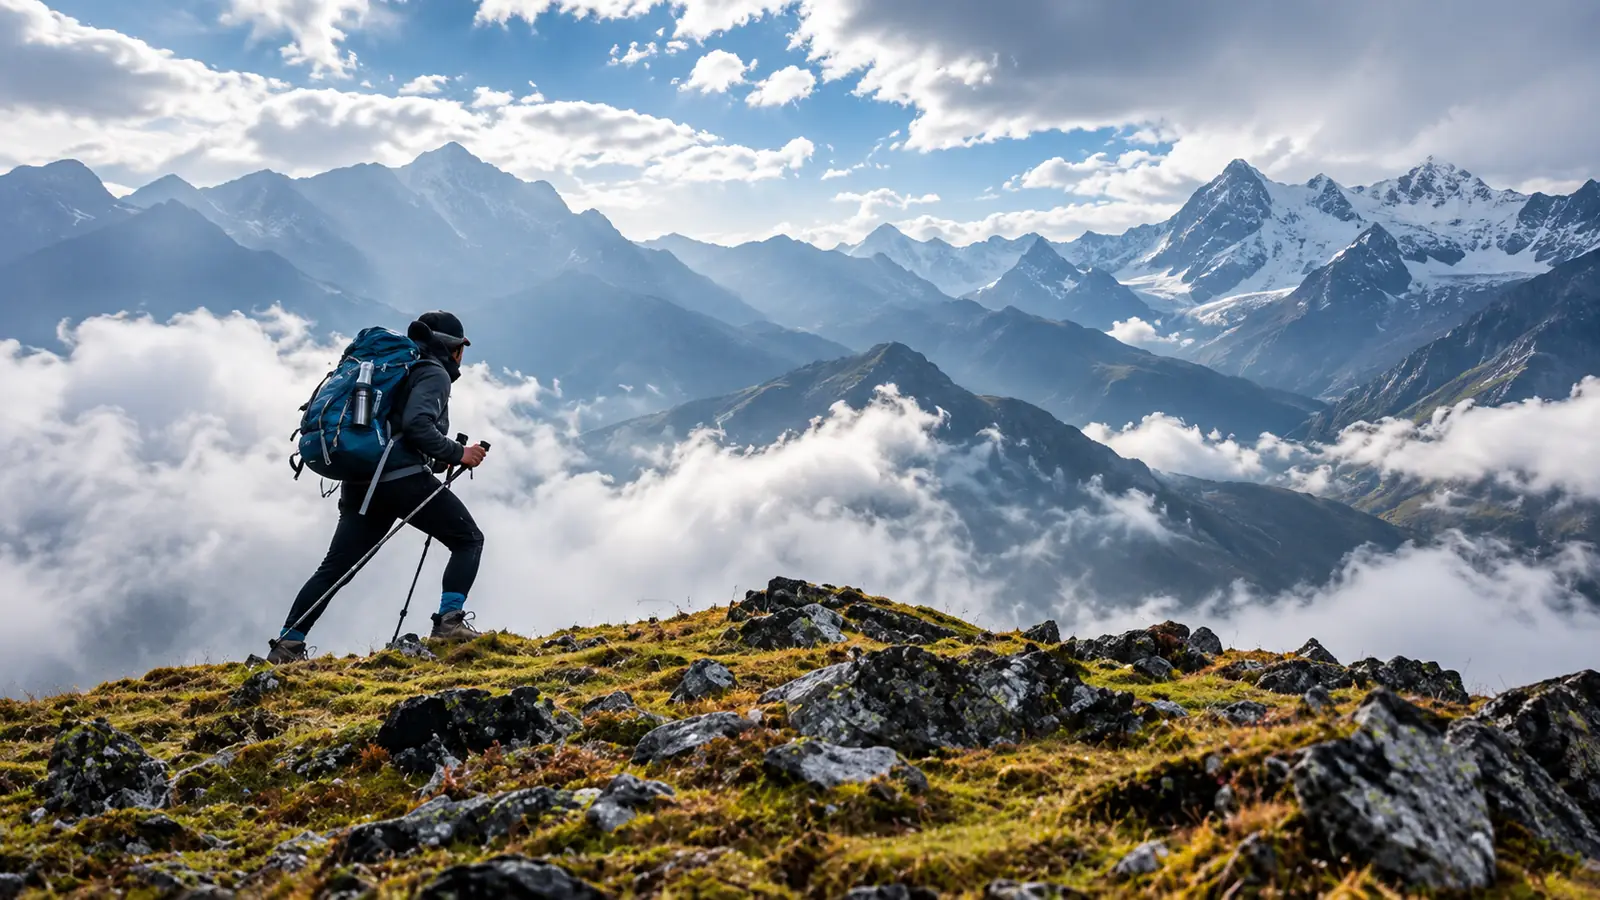
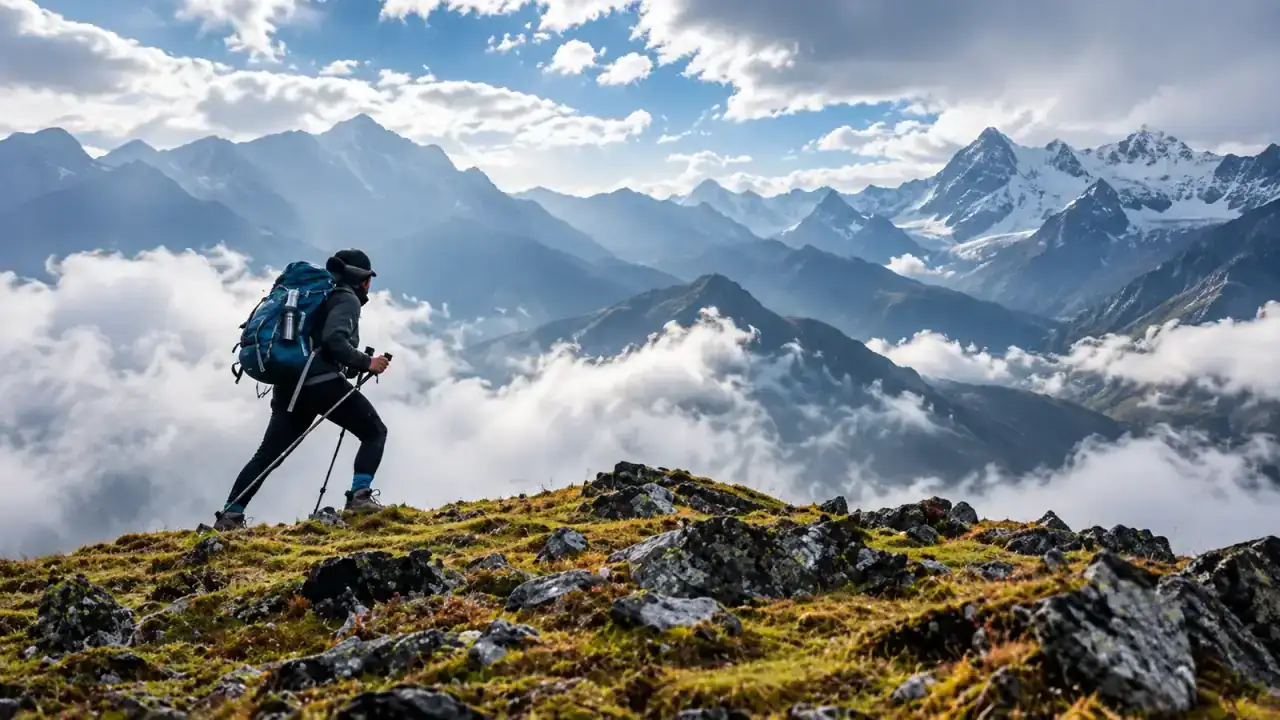
new

diff --git a/frontend/components/admin/AdminTripDetailView.tsx b/frontend/components/admin/AdminTripDetailView.tsx
@@ -33,6 +33,7 @@ export function AdminTripDetailView({ tripId }: Readonly<{ tripId: number }>) {
   const [error, setError] = useState("");
   const [loading, setLoading] = useState(true);
   const [actionError, setActionError] = useState("");
+  const [actionSuccess, setActionSuccess] = useState("");
   const [vehicleId, setVehicleId] = useState("");
   const [driverId, setDriverId] = useState("");
   const [bookingId, setBookingId] = useState("");
@@ -87,11 +88,13 @@ export function AdminTripDetailView({ tripId }: Readonly<{ tripId: number }>) {
       .finally(() => setLoading(false));
   }, [tripId]);
 
-  async function runAction(action: () => Promise<unknown>) {
+  async function runAction(action: () => Promise<unknown>, successMessage = "Updated successfully") {
     setActionError("");
+    setActionSuccess("");
     try {
       await action();
       await reload();
+      setActionSuccess(successMessage);
       router.refresh();
     } catch (err) {
       setActionError(err instanceof Error ? err.message : "Action failed");
@@ -124,6 +127,14 @@ export function AdminTripDetailView({ tripId }: Readonly<{ tripId: number }>) {
       {actionError && (
         <p className="mt-4 rounded-xl border border-red-200 bg-red-50 px-4 py-3 text-sm text-red-700">
           {actionError}
+        </p>
+      )}
+      {actionSuccess && (
+        <p
+          role="status"
+          className="mt-4 rounded-xl border border-emerald-200 bg-emerald-50 px-4 py-3 text-sm font-medium text-emerald-900"
+        >
+          {actionSuccess}
         </p>
       )}
 
@@ -166,7 +177,10 @@ export function AdminTripDetailView({ tripId }: Readonly<{ tripId: number }>) {
                     <button
                       type="button"
                       onClick={() =>
-                        runAction(() => removeBookingFromTrip(tripId, booking.bookingId))
+                        runAction(
+                          () => removeBookingFromTrip(tripId, booking.bookingId),
+                          "Booking removed successfully"
+                        )
                       }
                       className="text-sm text-red-600 hover:underline"
                     >
@@ -196,7 +210,10 @@ export function AdminTripDetailView({ tripId }: Readonly<{ tripId: number }>) {
                 type="button"
                 disabled={!bookingId}
                 onClick={() =>
-                  runAction(() => addBookingToTrip(tripId, Number(bookingId)))
+                  runAction(
+                    () => addBookingToTrip(tripId, Number(bookingId)),
+                    "Booking assigned successfully"
+                  )
                 }
                 className="rounded-xl bg-forest px-4 py-2 text-sm font-medium text-white disabled:opacity-50"
               >
@@ -229,7 +246,10 @@ export function AdminTripDetailView({ tripId }: Readonly<{ tripId: number }>) {
                   type="button"
                   disabled={!vehicleId || ["COMPLETED", "CANCELLED"].includes(trip.status)}
                   onClick={() =>
-                    runAction(() => assignVehicleToTrip(tripId, Number(vehicleId)))
+                    runAction(
+                      () => assignVehicleToTrip(tripId, Number(vehicleId)),
+                      "Vehicle assigned successfully"
+                    )
                   }
                   className="rounded-xl border border-border px-4 py-2 text-sm disabled:opacity-50"
                 >
@@ -257,7 +277,10 @@ export function AdminTripDetailView({ tripId }: Readonly<{ tripId: number }>) {
                   type="button"
                   disabled={!driverId || ["COMPLETED", "CANCELLED"].includes(trip.status)}
                   onClick={() =>
-                    runAction(() => assignDriverToTrip(tripId, Number(driverId)))
+                    runAction(
+                      () => assignDriverToTrip(tripId, Number(driverId)),
+                      "Driver assigned successfully"
+                    )
                   }
                   className="rounded-xl border border-border px-4 py-2 text-sm disabled:opacity-50"
                 >
@@ -273,7 +296,12 @@ export function AdminTripDetailView({ tripId }: Readonly<{ tripId: number }>) {
         {nextStatus && (
           <button
             type="button"
-            onClick={() => runAction(() => updateTripStatus(tripId, nextStatus))}
+            onClick={() =>
+              runAction(
+                () => updateTripStatus(tripId, nextStatus),
+                "Trip status updated successfully"
+              )
+            }
             className="rounded-xl bg-forest px-4 py-2.5 text-sm font-medium text-white"
           >
             Mark {nextStatus.replaceAll("_", " ")}
@@ -282,7 +310,12 @@ export function AdminTripDetailView({ tripId }: Readonly<{ tripId: number }>) {
         {!["COMPLETED", "CANCELLED", "IN_PROGRESS"].includes(trip.status) && (
           <button
             type="button"
-            onClick={() => runAction(() => updateTripStatus(tripId, "CANCELLED"))}
+            onClick={() =>
+              runAction(
+                () => updateTripStatus(tripId, "CANCELLED"),
+                "Trip cancelled successfully"
+              )
+            }
             className="rounded-xl border border-red-200 px-4 py-2.5 text-sm font-medium text-red-700"
           >
             Cancel Trip

diff --git a/frontend/components/admin/AdminFlashBanner.tsx b/frontend/components/admin/AdminFlashBanner.tsx
@@ -1,0 +1,52 @@
+"use client";
+
+import { useEffect, useState } from "react";
+import { usePathname, useRouter, useSearchParams } from "next/navigation";
+import { CheckCircle2, X } from "lucide-react";
+import { adminSuccessMessage } from "@/lib/adminSuccess";
+
+export function AdminFlashBanner() {
+  const searchParams = useSearchParams();
+  const pathname = usePathname();
+  const router = useRouter();
+  const successKey = searchParams.get("success");
+  const [message, setMessage] = useState<string | null>(null);
+
+  useEffect(() => {
+    const nextMessage = adminSuccessMessage(successKey);
+    if (!nextMessage || !successKey) return;
+
+    setMessage(nextMessage);
+
+    const params = new URLSearchParams(searchParams.toString());
+    params.delete("success");
+    const query = params.toString();
+    router.replace(query ? `${pathname}?${query}` : pathname, { scroll: false });
+  }, [successKey, searchParams, pathname, router]);
+
+  useEffect(() => {
+    if (!message) return;
+    const timer = window.setTimeout(() => setMessage(null), 6000);
+    return () => window.clearTimeout(timer);
+  }, [message]);
+
+  if (!message) return null;
+
+  return (
+    <div
+      role="status"
+      className="mb-6 flex items-start gap-3 rounded-xl border border-emerald-200 bg-emerald-50 px-4 py-3 text-sm text-emerald-900"
+    >
+      <CheckCircle2 className="mt-0.5 h-4 w-4 shrink-0 text-emerald-700" aria-hidden />
+      <p className="flex-1 font-medium">{message}</p>
+      <button
+        type="button"
+        onClick={() => setMessage(null)}
+        className="rounded-md p-0.5 text-emerald-800/70 hover:bg-emerald-100 hover:text-emerald-950"
+        aria-label="Dismiss success message"
+      >
+        <X className="h-4 w-4" />
+      </button>
+    </div>
+  );
+}

diff --git a/frontend/components/admin/PackageForm.tsx b/frontend/components/admin/PackageForm.tsx
@@ -15,6 +15,7 @@ import {
   type PackageStatus,
 } from "@/lib/api/adminPackagesApi";
 import { AdminAuthError } from "@/lib/api/client";
+import { withSuccess } from "@/lib/adminSuccess";
 import { toSlug } from "@/lib/slug";
 import { PackageImageManager } from "@/components/admin/PackageImageManager";
 import { StatusBadge } from "@/components/ui/StatusBadge";
@@ -111,9 +112,10 @@ export function PackageForm({ initial, mode }: Readonly<PackageFormProps>) {
     try {
       if (mode === "create") {
         const created = await createAdminPackage(form);
-        router.push(`/admin/packages/${created.id}/edit`);
+        router.push(withSuccess(`/admin/packages/${created.id}/edit`, "package-created"));
       } else if (initial) {
         await updateAdminPackage(initial.id, form);
+        router.replace(withSuccess(`/admin/packages/${initial.id}/edit`, "package-updated"));
         router.refresh();
       }
     } catch (err) {
@@ -133,6 +135,7 @@ export function PackageForm({ initial, mode }: Readonly<PackageFormProps>) {
     try {
       await updatePackageStatus(initial.id, newStatus);
       setStatus(newStatus);
+      router.replace(withSuccess(`/admin/packages/${initial.id}/edit`, "package-status"));
       router.refresh();
     } catch (err) {
       setError(err instanceof Error ? err.message : "Status update failed");

diff --git a/frontend/lib/adminSuccess.ts b/frontend/lib/adminSuccess.ts
@@ -1,0 +1,28 @@
+export const ADMIN_SUCCESS_MESSAGES = {
+  "package-created": "Package created successfully",
+  "package-updated": "Package updated successfully",
+  "package-status": "Package status updated successfully",
+  "trip-created": "Trip created successfully",
+  "vehicle-created": "Vehicle created successfully",
+  "vehicle-updated": "Vehicle updated successfully",
+  "driver-created": "Driver created successfully",
+  "driver-updated": "Driver updated successfully",
+  "coupon-created": "Coupon created successfully",
+  "coupon-updated": "Coupon updated successfully",
+  "booking-created": "Booking created successfully",
+} as const;
+
+export type AdminSuccessKey = keyof typeof ADMIN_SUCCESS_MESSAGES;
+
+export function withSuccess(path: string, key: AdminSuccessKey): string {
+  const separator = path.includes("?") ? "&" : "?";
+  return `${path}${separator}success=${encodeURIComponent(key)}`;
+}
+
+export function adminSuccessMessage(key: string | null | undefined): string | null {
+  if (!key) return null;
+  if (key in ADMIN_SUCCESS_MESSAGES) {
+    return ADMIN_SUCCESS_MESSAGES[key as AdminSuccessKey];
+  }
+  return "Saved successfully";
+}

diff --git a/frontend/components/admin/CouponForm.tsx b/frontend/components/admin/CouponForm.tsx
@@ -9,6 +9,7 @@ import {
   type CreateCouponPayload,
 } from "@/lib/api/adminCouponsApi";
 import { listAdminPackages, type AdminPackageSummary } from "@/lib/api/adminPackagesApi";
+import { withSuccess } from "@/lib/adminSuccess";
 
 type CouponFormProps = {
   initial?: CouponDetail;
@@ -53,7 +54,7 @@ export function CouponForm({ initial }: Readonly<CouponFormProps>) {
           expiresOn: form.expiresOn,
           active: form.active,
         });
-        router.push(`/admin/coupons/${result.id}`);
+        router.push(withSuccess(`/admin/coupons/${result.id}`, "coupon-updated"));
       } else {
         const payload: CreateCouponPayload = {
           code: form.code.trim().toUpperCase(),
@@ -63,7 +64,7 @@ export function CouponForm({ initial }: Readonly<CouponFormProps>) {
           expiresOn: form.expiresOn,
         };
         const result = await createCoupon(payload);
-        router.push(`/admin/coupons/${result.id}`);
+        router.push(withSuccess(`/admin/coupons/${result.id}`, "coupon-created"));
       }
       router.refresh();
     } catch (err) {

diff --git a/frontend/components/admin/AdminShell.tsx b/frontend/components/admin/AdminShell.tsx
@@ -1,6 +1,7 @@
 "use client";
 
-import { useCallback, useEffect, useState } from "react";
+import { Suspense, useCallback, useEffect, useState } from "react";
+import { AdminFlashBanner } from "@/components/admin/AdminFlashBanner";
 import { AdminHeader } from "@/components/admin/AdminHeader";
 import { AdminSidebar } from "@/components/admin/AdminSidebar";
 import { cn } from "@/lib/utils";
@@ -73,7 +74,12 @@ export function AdminShell({ children }: Readonly<AdminShellProps>) {
 
       <div className="flex flex-1 flex-col md:ml-64">
         <AdminHeader onOpenMenu={() => setMobileOpen(true)} />
-        <main className="flex-1 p-6 sm:p-8">{children}</main>
+        <main className="flex-1 p-6 sm:p-8">
+          <Suspense fallback={null}>
+            <AdminFlashBanner />
+          </Suspense>
+          {children}
+        </main>
       </div>
     </div>
   );

diff --git a/frontend/components/admin/VehicleForm.tsx b/frontend/components/admin/VehicleForm.tsx
@@ -9,6 +9,7 @@ import {
   type VehicleDetail,
   type VehicleOwnershipType,
 } from "@/lib/api/adminVehiclesApi";
+import { withSuccess } from "@/lib/adminSuccess";
 
 function vehicleSubmitLabel(saving: boolean, isUpdate: boolean): string {
   if (saving) return "Saving...";
@@ -41,7 +42,12 @@ export function VehicleForm({ initial }: Readonly<VehicleFormProps>) {
       const result = initial
         ? await updateVehicle(initial.id, form)
         : await createVehicle(form);
-      router.push(`/admin/vehicles/${result.id}`);
+      router.push(
+        withSuccess(
+          `/admin/vehicles/${result.id}`,
+          initial ? "vehicle-updated" : "vehicle-created"
+        )
+      );
       router.refresh();
     } catch (err) {
       setError(err instanceof Error ? err.message : "Failed to save vehicle");

diff --git a/frontend/components/admin/DriverForm.tsx b/frontend/components/admin/DriverForm.tsx
@@ -8,6 +8,7 @@ import {
   type CreateDriverPayload,
   type DriverDetail,
 } from "@/lib/api/adminDriversApi";
+import { withSuccess } from "@/lib/adminSuccess";
 
 function driverSubmitLabel(saving: boolean, isUpdate: boolean): string {
   if (saving) return "Saving...";
@@ -40,7 +41,12 @@ export function DriverForm({ initial }: Readonly<DriverFormProps>) {
       const result = initial
         ? await updateDriver(initial.id, form)
         : await createDriver(form);
-      router.push(`/admin/drivers/${result.id}`);
+      router.push(
+        withSuccess(
+          `/admin/drivers/${result.id}`,
+          initial ? "driver-updated" : "driver-created"
+        )
+      );
       router.refresh();
     } catch (err) {
       setError(err instanceof Error ? err.message : "Failed to save driver");

diff --git a/frontend/components/admin/TripForm.tsx b/frontend/components/admin/TripForm.tsx
@@ -4,6 +4,7 @@ import { useEffect, useState } from "react";
 import { useRouter } from "next/navigation";
 import { listAdminPackages, type AdminPackageSummary } from "@/lib/api/adminPackagesApi";
 import { createTrip, type CreateTripPayload } from "@/lib/api/adminTripsApi";
+import { withSuccess } from "@/lib/adminSuccess";
 
 function kolkataToday(): string {
   return new Date().toLocaleDateString("en-CA", { timeZone: "Asia/Kolkata" });
@@ -59,7 +60,7 @@ export function TripForm() {
 
     try {
       const trip = await createTrip(payload);
-      router.push(`/admin/trips/${trip.id}`);
+      router.push(withSuccess(`/admin/trips/${trip.id}`, "trip-created"));
       router.refresh();
     } catch (err) {
       setError(err instanceof Error ? err.message : "Failed to create trip");

diff --git a/frontend/components/admin/ManualBookingForm.tsx b/frontend/components/admin/ManualBookingForm.tsx
@@ -25,6 +25,7 @@ import {
   validateTraveller,
 } from "@/lib/formValidation";
 import { formatDate, formatPrice, parsePickupPoints } from "@/lib/format";
+import { withSuccess } from "@/lib/adminSuccess";
 
 function emptyTraveller(): TravellerInput {
   return {
@@ -234,7 +235,7 @@ export function ManualBookingForm() {
           paymentMode === "PAID_OFFLINE" ? offlinePaymentReference.trim() : undefined,
         notes: notes.trim() || undefined,
       });
-      router.push(`/admin/bookings/${booking.bookingId}`);
+      router.push(withSuccess(`/admin/bookings/${booking.bookingId}`, "booking-created"));
       router.refresh();
     } catch (err) {
       setError(err instanceof Error ? err.message : "Failed to create booking");

diff --git a/frontend/components/cinematic/cinematicMedia.ts b/frontend/components/cinematic/cinematicMedia.ts
@@ -8,9 +8,9 @@ export const CINEMATIC_IMAGES = {
   closing: "/images/cinematic/valley-buddha.webp",
 } as const;
 
-/** Prefer smaller decoded widths on phones; desktop caps at source width. */
+/** Prefer smaller decoded widths on phones; desktop caps near source width. */
 export const CINEMATIC_IMAGE_SIZES =
-  "(max-width: 640px) 100vw, (max-width: 1024px) 100vw, 1600px";
+  "(max-width: 640px) 100vw, (max-width: 1024px) 100vw, 1280px";
 
 /** Delivery quality for Next/Image (source files are already compressed WebP). */
-export const CINEMATIC_IMAGE_QUALITY = 72;
+export const CINEMATIC_IMAGE_QUALITY = 65;

diff --git a/frontend/next.config.ts b/frontend/next.config.ts
@@ -23,8 +23,8 @@ const nextConfig = {
   },
   images: {
     formats: ["image/avif", "image/webp"],
-    // Cap generated widths below 3840 — full-bleed hero rarely needs larger delivery.
-    deviceSizes: [640, 750, 828, 1080, 1200, 1920, 2048],
+    // Cap generated widths — full-bleed hero sources are ~1280px.
+    deviceSizes: [640, 750, 828, 1080, 1200, 1280],
     imageSizes: [16, 32, 48, 64, 96, 128, 256, 384],
     remotePatterns: [
       {
